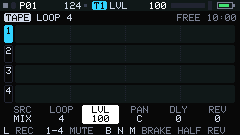
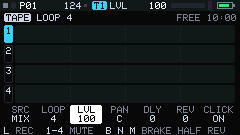
Docs: the session keeps the tape, the count-in click; TAPE screenshots
MANUAL 21, UX 10.11 (seven fields, tape-click.png), DESKTOP "Tape",
ARCHITECTURE "The count-in click" and "Files", a STATE entry.

Claude-Session: https://claude.ai/code/session_0184BPLkX1vesFQsqL6SSkXY

diff --git a/docs/UX.md b/docs/UX.md
@@ -56,7 +56,8 @@ All of this is UI-thread state except where it says Project. Nothing here is sav
 | `undo` | one Pattern snapshot plus its index, plus `kind` | empty | 4168 B static. |
 | `clip` | empty, Track(type), Pattern | empty | TrackPattern 520 B / Pattern 4168 B static. |
 | `dirty` | bool | false | Set when `status.revision` changes after a load or save. |
-| `tapeArm`, `tapeSrc`, `tapeField` | tape track 0..3; TRACK, MIX, LINE; SRC .. REV | 0, MIX, LVL | TAPE (10.11), not saved. The tape's own settings (levels, pans, sends, mutes, the loop) are the tape's, saved in its folder. |
+| `tapeArm`, `tapeSrc`, `tapeField` | tape track 0..3; TRACK, MIX, LINE; SRC .. CLICK | 0, MIX, LVL | TAPE (10.11), not saved. The tape's own settings (levels, pans, sends, mutes, the loop) are the tape's, saved in its folder. |
+| `tapeClick` | ON, OFF | ON | TAPE (10.11): the count-in click. Saved with the UI settings (byte 15 of the settings blob, builds with the tape only). |
 
 **Edit target.** Edits always go to the **pattern that is playing**, `status.pattern`. When stopped, that's the pattern last queued or played. There is no "edit a pattern that isn't playing" mode. To edit another pattern, queue it (OPT+step). While stopped, queuing switches immediately.
 
@@ -269,7 +270,7 @@ Modifier overlays appear 200 ms after the modifier goes down, **or immediately**
 | `z` `x` `c` `v` | arm tape track 1-4 (refused with `RECORDING` while another track records) |
 | `1`-`4` | mute tape track 1-4 on/off |
 | `5`-`8`, `q`-`i`, `'`, `,` | - |
-| `;` `.` | field previous / next (SRC LOOP LVL PAN DLY REV) |
+| `;` `.` | field previous / next (SRC LOOP LVL PAN DLY REV CLICK) |
 | `-` `=` | the field's value (SHIFT x8; both: its default) |
 | `l` | record: tap = on until `l` again; hold = while held; ends on the next bar line; from stop a count-in bar first |
 | SHIFT+`l` | record replacing |
@@ -565,18 +566,18 @@ Real-UI screenshots with real audio in the picture, drawn by `build/host/ui_shot
 * Holding a modifier while the help is up redraws the grid for that layer.
 * **Explain mode**: the same grid, plus the last pressed key framed WHITE and a card (2,93) 236x40 PANEL with an AMBER frame: the key chip + title WHITE, then 2 lines TEXT. Texts come from a per-mode table of 56 entries (one line title ≤ 30 chars, two lines ≤ 38 chars each).
 
-### 10.11 TAPE (`tape-empty.png`, `tape-countin.png`, `tape-recording.png`, `tape-waiting.png`, `tape-replace.png`, `tape-layers.png`, `tape-brake.png`, `tape-reverse.png`, `tape-field.png`, `tape-shift.png`, `tape-ctrl.png`, `tape-erase.png`, `tape-lift.png`, `sampler-lift.png`, `tape-tempo.png`, `tape-song.png`, `help-tape.png`)
+### 10.11 TAPE (`tape-empty.png`, `tape-countin.png`, `tape-recording.png`, `tape-waiting.png`, `tape-replace.png`, `tape-layers.png`, `tape-brake.png`, `tape-reverse.png`, `tape-field.png`, `tape-click.png`, `tape-shift.png`, `tape-ctrl.png`, `tape-erase.png`, `tape-lift.png`, `sampler-lift.png`, `tape-tempo.png`, `tape-song.png`, `help-tape.png`)
 
 The tape (MANUAL chapter 21; the engine's side: `pg/tape/tape.h`, ARCHITECTURE.md "The tape"). Reached by `p` in SONG (the view key again = the next page, 3: SONG and TAPE are the arrangement's two pages; `p` on TAPE goes back to SONG). Only in builds with the tape (`PG_TAPE`, not the Cardputer); without a tape installed the view says `NO TAPE`. Real-UI screenshots: `build/host/ui_shot host/ui_scripts/tape.txt docs/ux`. Code: `lib/pg/src/pg/ui/ui_tape.cpp`.
 
 * **Header** y 13: a `TAPE` chip (TEXT); `LOOP n` TEXT (pattern mode) or `SONG` GREEN; the record state: counting in or waiting for the bar line, a hollow RED 5x5 square and the beats to the start WHITE (`4 3 2 1`, as resampling counts) or `WAITING`; recording, a filled RED square, `REC` (overdub) or `REPLACE` RED and the take's length WHITE (`3.2S`). Right-aligned: `FREE m:ss`, DIM (AMBER under 10 s): the tape's memory left as time at the engine's rate (four tracks share it); left of it, when the project's tempo is not the tape's and nothing records, the tape's tempo AMBER (`124 BPM`).
 * **Lanes**: four, lane *t* at y = 25 + 20t, 18 px tall. The key cap x 4..12: the track's number, a filled rounded cap in the lane colour when armed (RED while recording), a RAISED outline otherwise; `M` under the number when muted. The box x 15..234 (220 columns) PANEL with dotted RAISED bar lines. What it shows: pattern mode, the loop (from tape position 0, its measured length once the transport has wrapped it, else the nominal length at the tape's tempo); song mode, the page of 8 bars that holds the playhead (it turns by whole pages). Each column is the peak of its stretch of tape on a square-root scale, drawn from the centre line: lane colours CYAN, GREEN, AMBER, the lead's; the armed lane bright, the others dim, muted LINE, the armed lane RED while it records. The playhead WHITE full height where the tape is; during a trick an AMBER line where it is heard from (`tape-brake.png`). The count-in also shows large (2x WHITE) over the armed lane.
-* **Fields** y 105..123: six cells 37x19 at x = 4 + 39f, the label (DIM) over the value (TEXT): `SRC` (the source: the selected instrument track's name, `MIX` or `LINE`), `LOOP` (bars: 1 2 4 8 16 32), and the armed track's `LVL` (0..127, 100 = unity), `PAN` (`C`, `L9`, `R20`), `DLY`, `REV` (sends, 0..127). The field `-`/`=` change is a WHITE cell with BG ink. The status bar's chip shows the armed track (`T1` in its lane colour), the field and its value.
+* **Fields** y 105..123: seven cells 32x19 at x = 4 + 33f, the label (DIM) over the value (TEXT): `SRC` (the source: the selected instrument track's name, `MIX` or `LINE`), `LOOP` (bars: 1 2 4 8 16 32), the armed track's `LVL` (0..127, 100 = unity), `PAN` (`C`, `L9`, `R20`), `DLY`, `REV` (sends, 0..127), and `CLICK` (`ON` / `OFF`: the count-in click; `-` off, `=` on, both: ON; `tape-click.png`). The field `-`/`=` change is a WHITE cell with BG ink. The status bar's chip shows the armed track (`T1` in its lane colour), the field and its value.
 * **Footer** y 127: `L REC  1-4 MUTE  B N M BRAKE HALF REV`; while counting in or recording `L ENDS ON THE BAR LINE`; SHIFT held: `SFT+L REPLACE  DEL ALL OF T`; CTRL held: `CTRL+C LIFT TO SLOT n  Z UNDO`.
 * **Toasts**: a take's end `T1 7.7S  CTRL+Z UNDO` (kind 1); `TAPE: MEMORY FULL`, `TAPE: END OF TAPE` (errors); `TAPE UNDO  CTRL+Z REDO` / `TAPE REDO`; `T1 LOOP ERASED  CTRL+Z UNDO`; `SLOT 1 TAP01 5.8S` after a lift; `TAPE BUSY`, `NO LINE INPUT`, `NO LIFT`, `T2 IS EMPTY`, `RECORDING`; the files' `TAPE IS 48K: NOT LOADED`, `TAPE: WRITE FAILED`.
 * **Dialogs** (the confirm dialog's style): `ERASE T1 LOOP?` / `ERASE ALL OF T1?` with `CTRL+Z BRINGS IT BACK`, `ENTER  ERASE`; the lift onto a slot holding a sample: `REPLACE SLOT 1?`, `TAP01 IS ERASED`, `ENTER  LIFT`.
 
-**Keys** (6.3). A record gesture that is a sibling of `L` / SHIFT+`L` on the sampler page: `L` records, SHIFT+`L` records differently (there resampling, here replacing). A tap latches it (on to the next `L`, which ends it on the following bar line); a hold longer than 400 ms records while held and its release ends it on the next bar line, so a looper can be played either way. Starts are on bar lines: while the transport runs, the next one; stopped, one bar of count-in (the engine counts, silent; `4 3 2 1`) and then the transport starts from the top with the take on its first bar line. The tricks are three adjacent keys of the right hand, held; a pad (playing a track) with a trick is two keys. Nothing here needs more than two non-modifier keys; no new combination closes a rectangle of the key matrix (docs/ghosting-audit.md row 32).
+**Keys** (6.3). A record gesture that is a sibling of `L` / SHIFT+`L` on the sampler page: `L` records, SHIFT+`L` records differently (there resampling, here replacing). A tap latches it (on to the next `L`, which ends it on the following bar line); a hold longer than 400 ms records while held and its release ends it on the next bar line, so a looper can be played either way. Starts are on bar lines: while the transport runs, the next one; stopped, one bar of count-in (the engine counts, `4 3 2 1`, and clicks on the four beats unless CLICK is OFF) and then the transport starts from the top with the take on its first bar line. The click is heard and never recorded (MANUAL 21 "The click"; ARCHITECTURE.md "The count-in click"): a 30 ms sine burst with a 1 ms rise and a cubic decay, 1760 Hz at -10 dBFS peak on beat 1, 880 Hz at -13 dBFS on beats 2-4 (the demos peak at about -2 dBFS, RMS about -13). Resampling's count-in (10.3) has none: it counts while the groove plays, which is the reference. The tricks are three adjacent keys of the right hand, held; a pad (playing a track) with a trick is two keys. Nothing here needs more than two non-modifier keys; no new combination closes a rectangle of the key matrix (docs/ghosting-audit.md row 32).
 
 **Recording, what is heard.** While a take records over a track, that track's earlier content plays (overdub: the passes so far; REPLACE: nothing until the pass has written it). MIX takes the master bus's input, so with its sources muted the bounce plays back what the mix was; the armed track itself is heard without sends while it records MIX. TRACK takes the selected instrument track's dry signal as heard, without its delay and reverb (the tape track has its own sends).
 

diff --git a/docs/DESKTOP.md b/docs/DESKTOP.md
@@ -291,7 +291,9 @@ The tape (MANUAL chapter 21, UX.md 10.11): `p` twice. The app gives it 10 minute
 [tape] 10 min of track time (53 MB), 1615 blocks of 16384 samples; LINE latency 46.4 ms (estimated: --line-latency MS)
 ```
 
-- **Files.** Saving a project writes its tape beside it: `projects/NAME/tape.txt` and `projects/NAME/track1.wav` .. `track4.wav` (44.1 kHz mono 16-bit, the tracks that have audio). Loading the project, or the next launch resuming it, loads them. Quitting does not save the tape (the session file holds the patterns only): a take not saved with `ctrl`+`s` is gone at the next launch. The WAVs open in any editor; one replaced by an edited file of the same format is loaded as it is.
+- **Files.** Saving a project writes its tape beside it: `projects/NAME/tape.txt` and `projects/NAME/track1.wav` .. `track4.wav` (44.1 kHz mono 16-bit, the tracks that have audio). Loading the project loads them. The WAVs open in any editor; one replaced by an edited file of the same format is loaded as it is.
+- **The session keeps the tape.** Beside `projects/_last.pgv` the session has its own tape folder, `projects/_last/` (the same files), so the next launch has the tape as you left it without `ctrl`+`s`; the project's folder is written only by a save. Quitting ends a take that is running (it is kept) and writes what changed, then says so: `[tape] session's tape saved to .../projects/_last (12 ms)`. The autosave (2 s after a stop, or 10 s without a key while stopped) writes it too, only `tape.txt` and the tracks that changed since, a piece per frame (at most 256 K samples, 0.5 MB, a frame). A crash or a kill loses what was recorded since the last autosave (normally the takes since the last stop); a track being written when it happens keeps its previous file (each WAV is written to a `.tmp` and renamed). A session from an older version has no `_last/`: its project's saved tape is loaded, as before.
+- **The count-in click** is added to what SDL plays after the F9 ring takes the block: you hear it, the recording does not have it.
 - **LINE** records the Mac's audio input, the one the microphone uses (`--mic-device` chooses it). The input is open only while a LINE take is armed or recording (`[tape] line in open: NAME` / `closed`). What comes in is late by the round trip: the output buffer, the Mac's audio path, the input's chunks and the tape's own ring. The app estimates it from the buffers (2 x `--buffer` + 512 + 1024 frames, 46 ms at the defaults); the real figure depends on the Mac and the interface. To measure it, loop the output into the input (a cable, or a loopback device), record a click on a bar line onto a LINE track and see how far after the bar line it lands on the tape; then start with `--line-latency MS` and it lands on it. Only at 44.1 kHz (the input is opened at 44.1 kHz); at `--sr 32000` LINE says `NO LINE INPUT`.
 - **Lift** (`ctrl`+`c` on TAPE) writes `samples/NN-tapNN.wav`: the loop halved to the pool's 22,050 Hz as recordings are.
 - The Cardputer has no tape (it has no memory for one); the Daisy's comes in a later phase. A project with a tape folder loads on both: the folder is just not read.
@@ -316,4 +318,4 @@ The tape (MANUAL chapter 21, UX.md 10.11): `p` twice. The app gives it 10 minute
 - `samples.cpp`: the `samples/` folder (above): polls it, converts with `host/common/sample_convert.h` into one full-size buffer per slot, hands them to the instrument as a `pg::sampler::MemoryPool`, and takes dropped files (`SDL_DROPFILE`; script command `app drop PATH`, `app print-samples`).
 - `lab.cpp`: the macro lab (`--lab`): polls the folder, parses with `pg::macro`, is the instrument library's overlay (`pg::macro::LibraryOverlay`), moves the track's instrument and macros through `Ui::setInstrument` / `Ui::setMacro`, draws its panel, writes the marks.
 
-Tests: `test_desktop_samples` (the samples folder: load, a second file of a slot ignored, a broken file, reload on change, removal, drop and its copy), `test_desktop_keymap` (map and key logic), `test_desktop_files` (desktop files == device files, session round trip, ghost filter switch), `test_desktop_listen` (the capture conversion for every format, channel count and callback cut; the rate match against two simulated clocks, an hour at +500 and -500 ppm with callback jitter, variable blocks, 32 kHz, the Mac's burst patterns behind sdl2-compat, f32 mono 48 kHz, s32 32 kHz in odd sizes, 6-channel 96 kHz, a pattern that grows while playing, unplug and an output stall: no underrun, overflow or glitch, latency bounded, and a fit of the output: the device's frequency, its level, THD+N below -60 dB) and `test_desktop_app` (`host/app/tests/desktop_check.py`: the app headless under SDL's dummy drivers; its screenshots must be pixel-identical to `ui_shot` for the same keys, also with the strip's controls and the Stems list used in between; the modifier lights; the F9 recording bit-identical to the offline engine; the session saved at quit and resumed; a saved file through the device's transfer protocol; Listen against a simulated device, recording and unplug included, the recording fitted by `listen_analyze` (frequency, level, THD+N) for several obtained specs and burst patterns, the `--listen-dump` file checked against what was delivered, and SDL's real capture path driven by SDL's disk driver reading a sine from a file; the Stems list end to end against `xfer_sim` and its error messages; the macro lab: macros moved by mouse reach the engine, a file rewritten while running is reloaded, a broken one reported and ignored, the marks written, `none` and a deleted file give the values back; the microphone's input: `--list-inputs`, the start line, `--mic-device` partial and unmatched, `MIC SILENT` once per hold from SDL's dummy capture device (zeros) and not from the disk driver reading quiet noise).
+Tests: `test_desktop_samples` (the samples folder: load, a second file of a slot ignored, a broken file, reload on change, removal, drop and its copy), `test_desktop_keymap` (map and key logic), `test_desktop_files` (desktop files == device files, session round trip, ghost filter switch), `test_desktop_listen` (the capture conversion for every format, channel count and callback cut; the rate match against two simulated clocks, an hour at +500 and -500 ppm with callback jitter, variable blocks, 32 kHz, the Mac's burst patterns behind sdl2-compat, f32 mono 48 kHz, s32 32 kHz in odd sizes, 6-channel 96 kHz, a pattern that grows while playing, unplug and an output stall: no underrun, overflow or glitch, latency bounded, and a fit of the output: the device's frequency, its level, THD+N below -60 dB) and `test_desktop_app` (`host/app/tests/desktop_check.py`: the app headless under SDL's dummy drivers; its screenshots must be pixel-identical to `ui_shot` for the same keys, also with the strip's controls and the Stems list used in between; the modifier lights; the F9 recording bit-identical to the offline engine; the session saved at quit and resumed; the tape kept with the session (a take quit without a save comes back identical, a take stopped and autosaved survives a kill); the count-in click in what SDL's disk driver plays and not in F9's recording, and nothing added with CLICK OFF; a saved file through the device's transfer protocol; Listen against a simulated device, recording and unplug included, the recording fitted by `listen_analyze` (frequency, level, THD+N) for several obtained specs and burst patterns, the `--listen-dump` file checked against what was delivered, and SDL's real capture path driven by SDL's disk driver reading a sine from a file; the Stems list end to end against `xfer_sim` and its error messages; the macro lab: macros moved by mouse reach the engine, a file rewritten while running is reloaded, a broken one reported and ignored, the marks written, `none` and a deleted file give the values back; the microphone's input: `--list-inputs`, the start line, `--mic-device` partial and unmatched, `MIC SILENT` once per hold from SDL's dummy capture device (zeros) and not from the disk driver reading quiet noise).

diff --git a/docs/MANUAL.md b/docs/MANUAL.md
@@ -1321,13 +1321,13 @@ Beside its patterns the Pocket Groove has a **tape**: four tracks of audio that 
 
 **Getting there.** `p` is SONG; `p` again is **TAPE** (and `p` once more goes back to SONG). The two are the arrangement's pages: patterns on one, audio on the other.
 
-**The screen.** Four lanes, one per tape track, each with the waveform of what is on it. In pattern mode the lanes show the **loop** (4 bars unless you change it), with dotted bar lines; in song mode a page of 8 bars that follows the song. The white line is where the tape is. The header says `LOOP 4` (or `SONG`), the record state, and `FREE 9:36`: how much tape is left, in minutes of track time (all four tracks share it). If the project's tempo is not the tempo the tape was recorded at, that tempo is shown in amber (`124 BPM`). Under the lanes the **armed** track's settings: `SRC` (what is recorded), `LOOP`, `LVL`, `PAN`, `DLY`, `REV`.
+**The screen.** Four lanes, one per tape track, each with the waveform of what is on it. In pattern mode the lanes show the **loop** (4 bars unless you change it), with dotted bar lines; in song mode a page of 8 bars that follows the song. The white line is where the tape is. The header says `LOOP 4` (or `SONG`), the record state, and `FREE 9:36`: how much tape is left, in minutes of track time (all four tracks share it). If the project's tempo is not the tempo the tape was recorded at, that tempo is shown in amber (`124 BPM`). Under the lanes the **armed** track's settings: `SRC` (what is recorded), `LOOP`, `LVL`, `PAN`, `DLY`, `REV`, and `CLICK` (the count-in click, below).
 
 | Key | On TAPE |
 |---|---|
 | `z` `x` `c` `v` | arm tape track 1 .. 4 (the one that records, and whose settings are shown) |
 | `1` .. `4` | mute / unmute tape track 1 .. 4 |
-| `;` `.` | the field: SRC LOOP LVL PAN DLY REV |
+| `;` `.` | the field: SRC LOOP LVL PAN DLY REV CLICK |
 | `-` `=` | change it (both: its default) |
 | `l` | record: **tap** to start, `l` again to stop; or **hold** and let go to stop |
 | `shift`+`l` | record, replacing what is there instead of adding to it |
@@ -1347,12 +1347,14 @@ Everything else does what it does everywhere: the pads play and select tracks, `
    - **MIX**: everything you hear, instruments, delay and reverb and the other tape tracks, but not the track being recorded. This is a **bounce**: with its sources muted afterwards it sounds the same, so four tracks of instruments become one tape track and the instruments are free again.
    - **TRACK**: the selected instrument track alone, as you hear it (its level, pan, mute and ducking), without its delay and reverb: give the tape track its own `DLY` and `REV` instead (recorded with them, they would be doubled). The field shows the track's name; select another with its pad (`shift`+pad: silently).
    - **LINE**: the audio input (on the desktop app: the Mac's input, the one the microphone uses).
-3. **Press `l`.** While the groove plays, the header counts the beats to the next bar line (`4 3 2 1`) and recording starts exactly on it. Stopped, the count is one bar of silence (a large `4 3 2 1` in the lane), then the transport starts from the top with the recording.
+3. **Press `l`.** While the groove plays, the header counts the beats to the next bar line (`4 3 2 1`) and recording starts exactly on it. Stopped, the count is one bar of clicks (a large `4 3 2 1` in the lane, the first click higher), then the transport starts from the top with the recording.
 4. **Stop it**: tap `l` again, or, if you held `l`, let go. It ends on the **next bar line** after that, so a take is whole bars. Stopping the transport ends it at once.
 
 ![Recording: the take grows in red](ux/tape-recording.png)
 
 **Layering.** In pattern mode the tape loops: a take that runs on past the end of the loop goes round and records on top of itself, and what you recorded in the earlier passes plays back while you add the next one, like a looper. A take onto a track that has audio **adds** to it (overdub). `shift`+`l` **replaces** instead: the track is silent while you record over it, and what you record is all that is left there. When added layers would get loud, the tape rounds off the peaks softly rather than clipping.
+
+**The click.** The count-in from stop clicks on its four beats so you can come in on time when you play a part by hand: a short beep, the first one an octave higher, quieter than the music. You hear it; it is never recorded, not onto the tape from any source (a bounce included; LINE does not pick it up from the speakers either, it ends well before the take starts), not into a resample and not into a recording of the output (F9 on the desktop). `CLICK` (the last field) turns it `OFF`; the setting is kept when you switch projects and quit. There is no click while the take waits for a bar line with the groove playing: the groove is the reference.
 
 **Undo.** `ctrl`+`z` on TAPE takes the last take (or erase) back; again brings it back. Only one level, and starting a new take forgets it.
 
@@ -1388,6 +1390,8 @@ Only the tape is affected; the instruments keep playing. Underneath, the tape ke
 
 ### Files
 
-The tape is saved **beside** the project, not inside it, so a project stays small. Saving `GROOVE01` also writes the folder `GROOVE01/` next to it: `tape.txt` (the loop, the levels, pans, sends and mutes, the tape's tempo and rate) and one WAV per track that has audio (`track1.wav` ..). Loading the project loads its tape; a project without such a folder has an empty tape; a new project starts with an empty tape. Unsaved changes on the tape mark the project as changed (`*`), like any edit. The WAVs are ordinary mono files you can open anywhere. The tape is saved only with the project: the autosaved session keeps your patterns when you quit, but the tape comes back as it was last saved with `ctrl`+`s`.
+The tape is saved **beside** the project, not inside it, so a project stays small. Saving `GROOVE01` also writes the folder `GROOVE01/` next to it: `tape.txt` (the loop, the levels, pans, sends and mutes, the tape's tempo and rate) and one WAV per track that has audio (`track1.wav` ..). Loading the project loads its tape; a project without such a folder has an empty tape; a new project starts with an empty tape. Unsaved changes on the tape mark the project as changed (`*`), like any edit. The WAVs are ordinary mono files you can open anywhere.
+
+**Quitting keeps the tape.** The autosaved session keeps the tape with your patterns, in its own folder (`_last/` beside the session file; the project's folder is only written by `ctrl`+`s`). The next start has the tape exactly as you left it, its takes, levels, pans, sends, mutes and loop (not the undo). Quitting while a take records ends the take there and keeps it. The session's tape is also written when the session is autosaved (2 seconds after you stop, or after 10 seconds without a key while stopped), only the tracks that changed. If the app crashes, or the computer loses power, what you recorded since the last of those is lost: a take you recorded and stopped more than a couple of seconds before is safe.
 
 A tape recorded at another sample rate than the one the app runs at is not loaded (`TAPE IS 48K: NOT LOADED`).

diff --git a/docs/STATE.md b/docs/STATE.md
@@ -70,6 +70,62 @@ itself. Host-verified: ctest -L daisy (core, /int with power cuts, sample pool, 
 BMI270) and tools/test_pg_daisy.py against the firmware's App in daisy_sim. docs/DAISY.md has the
 flashing steps and the first-power-on checklist. Entry "DAISY TARGET BUILT" below.
 
+TAPE: THE SESSION KEEPS IT, THE COUNT-IN CLICKS (2026-11-15, branch of a tape worktree; NOTHING
+LISTENED TO, desktop and host only). Two of phase 1's shortcomings, fixed before the owner uses it.
+- SESSION: the session has its own tape folder, /int/pg/_last/ (desktop: projects/_last/, beside
+  _last.pgv; tape::kSessionTape, a name no project can have), the same files as a project's.
+  Written by the autosave (2 s after a stop / 10 s idle, never while playing; only tape.txt and
+  the tracks whose Tape::trackRev moved since they were last written there, through TapeFiles'
+  new track mask, 256 K samples a UI frame; a take, an erase, an undo, a project load or save
+  stops the job and the tracks it finished count) and at quit (Ui::tapeQuit(), which the app
+  loops on before saveSessionNow() with the audio still running: a running take is ended with
+  kOpCancel, which keeps what it recorded, then merged and written; `[tape] session's tape saved
+  to ... (N ms)`). Power-on loads _last/ when it exists (else, a session from before this, the
+  named project's folder as before). The project's own folder is written only by CTRL+S, and the
+  project's dirty mark is unchanged (restored from the settings). A crash or kill loses what was
+  recorded since the last autosave (normally: the takes since the last stop, if it was more than
+  2 s ago); the track being written at that moment keeps its previous file (.tmp + rename), and
+  tape.txt may then be newer than that WAV. A session tape refused at boot (another --sr) is
+  kept until the tape changes. A normal quit loses nothing (desktop_check 10b: a take and a level,
+  quit without CTRL+S, relaunch, saved as GROOVE01: the same PCM and level; a take, a stop,
+  SIGKILL after the autosave: back).
+- CLICK: the count-in bar from stop clicks on its four beats: a 30 ms sine burst (1 ms rise,
+  cubic decay to zero), 1760 Hz peak 0.35 FS (-10.2 dBFS measured on the desktop: 10,124) on
+  beat 1, 880 Hz peak 0.25 (-13.3 dBFS: 7,070) on beats 2-4; the demos peak about -2 dBFS with
+  RMS about -13 (measured, render_demo 0 1 2 3). A MONITOR signal: the engine never mixes it into
+  process()'s output, so no tape source (all inside the engine), no output tap (resampling) and
+  no recording of the output has it; the platform adds it with Engine::monitor(out, frames) right
+  after process() on the same buffer (desktop: after the F9 ring). The engine counts the frames
+  process() writes; countInDone(frame) (now every quantum, so Play during the count-in ends the
+  clicks) notes the count-in's first frame and its end; Tape::clickInto computes the bursts in the
+  buffer from those numbers (sinf per click sample, nothing per sample otherwise, no allocation).
+  The last burst ends >= 0.27 s before the take (200 BPM max), so LINE, written a round trip
+  back, does not pick it up from the speakers (itest_tape loops the heard output into LINE: the
+  tape is bit-identical with the click on and off, for TRACK, MIX and LINE). CLICK, a seventh
+  field on TAPE (ON / OFF, default ON), is a UI setting (settings byte 15, builds with the tape
+  only): kept across projects and quits. Compiled out with PG_TAPE=0. Resampling's count-in
+  (SHIFT+L on a sampler page) does NOT get it: it counts while the groove plays (resampling
+  records the output, so the groove is running and is the reference); the click is the tape's.
+  No metronome during a take (not built): the patterns play during every take, so the groove is
+  the reference; for a first layer with nothing else, a muted hat pattern serves; if the owner
+  asks, CLICK could get a third value (ON while recording) on the same monitor path, cheaply.
+- MEASURED: host ctest 119/119 (itest_tape 382 checks, +81: the click on its beats at its level
+  and pitch, nothing else added, the engine output, the output tap and the tape identical with
+  it on and off, Play in the count-in ends it, none while waiting with the groove playing;
+  itest_ui_tape 345, +78: the session's tape written by the autosave and only the changed
+  tracks, a take ended and kept by the quit, power-on brings back audio, level, tempo and the
+  click setting, an erase rewrites, CLICK on the view; desktop_check 10b and 10c: the click in
+  what SDL's disk driver plays, four bursts a beat apart, beat 1 louder, none of it in F9's
+  recording, which is otherwise identical to what was heard; with CLICK OFF identical
+  throughout). itest_golden, itest_golden48, itest_golden_notape unchanged; empty tape
+  bit-identical. Callgrind (bench_tape): no tape 2101, empty 2108 (+1 over phase 1: the counters
+  and countInDone every quantum), 4 play 2237, + rec 2311, + HALF 2609. Cardputer unchanged:
+  USB flash 1,336,235 RAM 202,284; non-USB 1,274,199 / 201,764. Daisy unchanged: stage 0 420,848
+  B, stage 1 452,344 B.
+- PHASE 2 adds: the Daisy calls Engine::monitorFloat() on its output buffer after
+  processFloat() (its resampling takes the output tap, which never has the click); the session's tape on /int
+  needs the Daisy's FileSystem to create the folder on open-for-write, like a project's.
+
 TAPE PHASE 1 (2026-11-15, branch of the tape worktree; NOTHING LISTENED TO, desktop and host only).
 The OP-1-style tape: four mono audio tracks beside the patterns, mixed into the master bus
 with the instruments (level, pan, mute, delay and reverb sends each), rolling with the
@@ -110,8 +166,8 @@ the Cardputer's envs and the Daisy's Makefile set it.
   tape's undo, CTRL+C lifts the loop into the selected sampler track's slot (else PERC's) in
   whole bars that fit (TAP01). ghosting-audit.md row 32: every gesture is two keys.
 - FILES: <mount>/pg/NAME/tape.txt + track1..4.wav beside NAME.pgv, incremental both ways
-  (tape_io.h, a piece per UI frame), loaded with the project and with the session at boot; a
-  tape of another rate is refused (TAPE IS 48K: NOT LOADED).
+  (tape_io.h, a piece per UI frame), loaded with the project; a tape of another rate is
+  refused (TAPE IS 48K: NOT LOADED). (Since: the session keeps its own tape, entry above.)
 - MEASURED (host): ctest 119/119 (new itest_tape 301 checks, itest_ui_tape 267 on all three
   key-matrix models, itest_golden_notape, desktop_check part 10). itest_golden /
   itest_golden48 unchanged; an empty tape bit-identical in int16 and float. Cost, callgrind

diff --git a/docs/ARCHITECTURE.md b/docs/ARCHITECTURE.md
@@ -199,9 +199,29 @@ lands on it; HALF and REVERSE run at -0.5 and -2 samples per frame relative to t
 releases cross-fade (256 frames) back onto the true address. Transitions wait for a running
 cross-fade to finish (at most 5.8 ms). Only playback moves; recording and the bars do not.
 
+**The count-in click.** A take from stop counts in one bar; the tape clicks on its four beats
+(a 30 ms sine burst, 1760 Hz on beat 1, 880 Hz on the others). It is a MONITOR signal: the
+engine never mixes it into what `process()` writes, so nothing that takes the output has it
+(the tape's sources, which are all inside the engine; the output tap and so resampling; the
+platform's recording of the output). The platform adds it after them: `Engine::monitor(out,
+frames)` right after `process()` on the same buffer, on the audio thread (the desktop: after
+the F9 ring, before SDL plays it). The engine counts the frames its `process()` calls write;
+`countInDone(frame)` (every quantum) notes the count-in's first frame and where it ended (Play,
+Stop, a cancel), and `Tape::clickInto` adds the bursts that fall in the buffer, from those
+numbers alone: no state per sample, nothing allocated, a compare outside a count-in. The last
+burst ends at least 0.27 s before the bar line (a beat at 200 BPM is 0.3 s), so LINE, which writes the
+input a round trip back from the take's start, does not record the speakers' click either
+(`itest_tape` loops the heard output into LINE). Compiled out with the tape.
+
 **Files** (`tape_io.h`): `<mount>/pg/NAME/tape.txt` and `track1.wav` .. `track4.wav` beside
 `NAME.pgv`, written and read incrementally through `FileSystem`'s streaming calls (the UI runs
-256 K samples a frame on the desktop), each WAV written to a `.tmp` and renamed.
+256 K samples a frame on the desktop), each WAV written to a `.tmp` and renamed. A save can
+be limited to some tracks. The session keeps a tape too, in `/int/pg/_last/` beside
+`_last.pgv` (`tape::kSessionTape`; no project can have that name): the UI writes it from the
+autosave (only `tape.txt` and the tracks whose `Tape::trackRev` moved since they were last
+written there, a piece per frame; a take, an erase, an undo or a project's load or save stops
+the job, the tracks it finished count), and `Ui::tapeQuit()` at quit (ends a take, which is
+kept, then writes what changed); power-on loads it instead of the named project's folder.
 
 **Cost** (callgrind, x86 instructions per frame, the busy pattern stereo at 48 kHz:
 `host/tools/bench_tape`): no tape 2101, an empty tape 2107, four tracks playing 2236 (+135),
